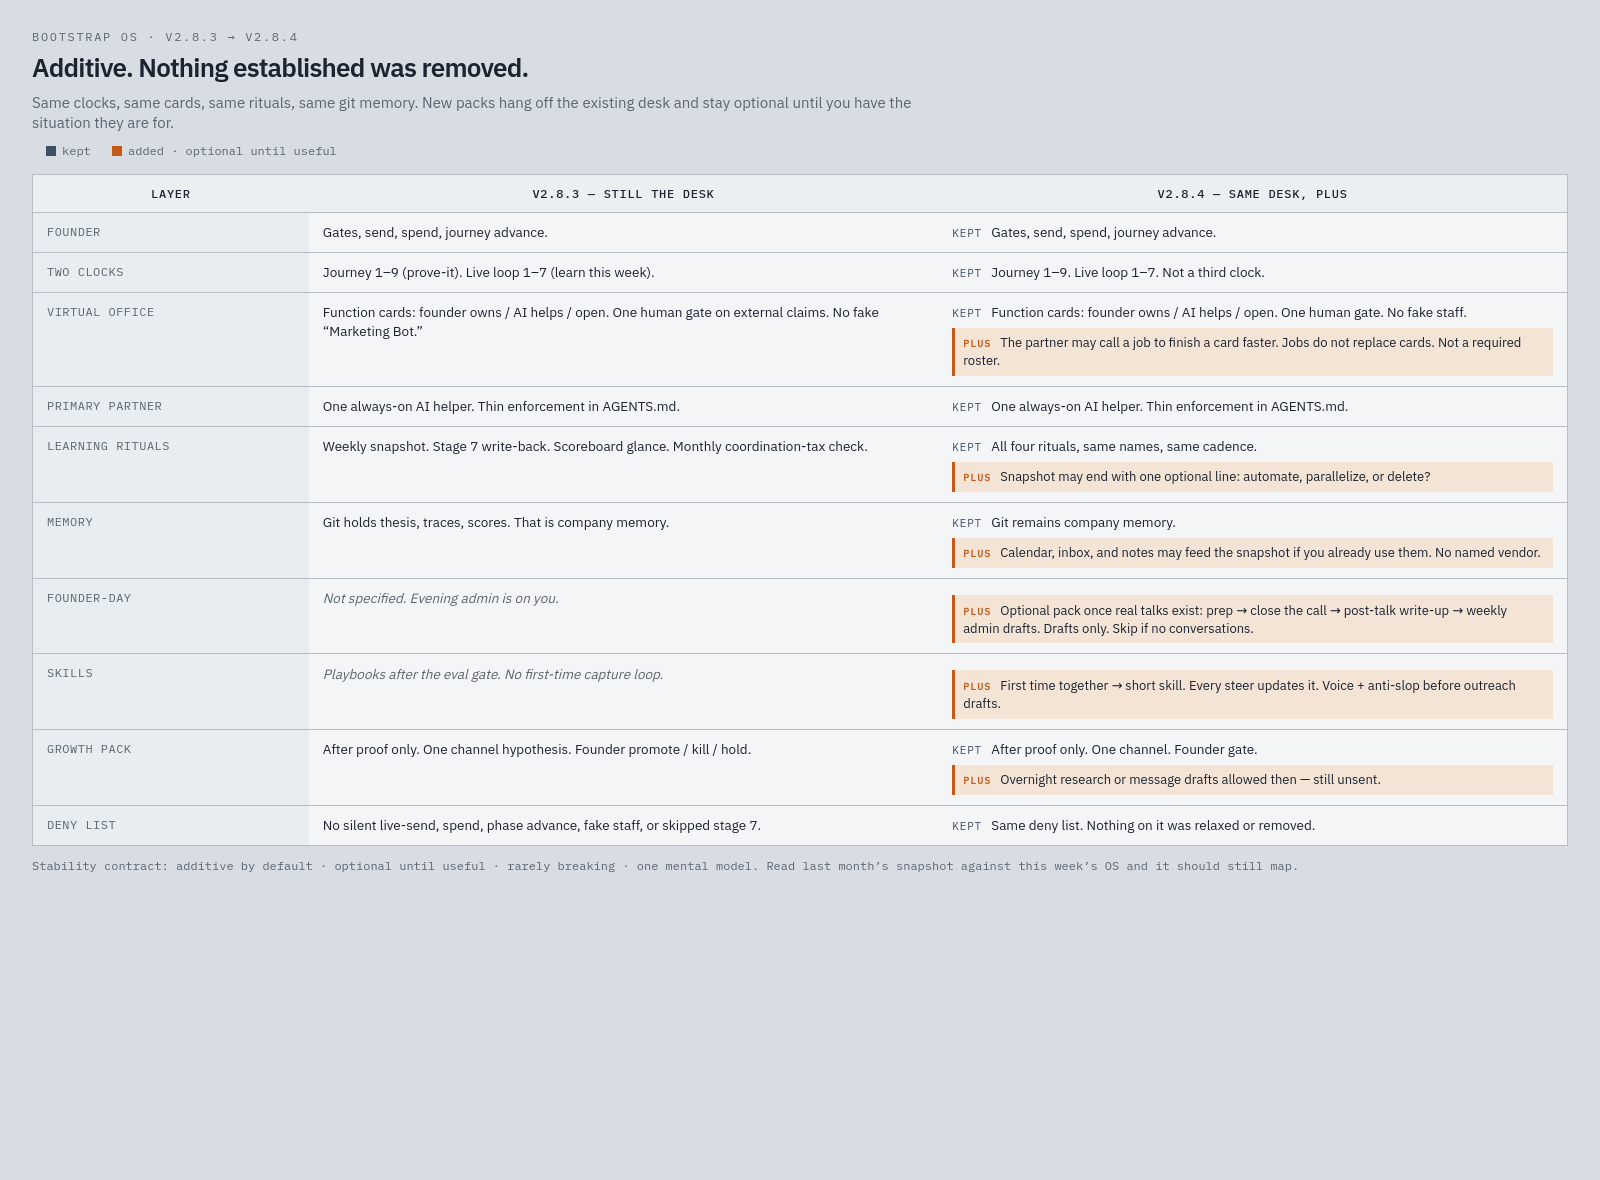
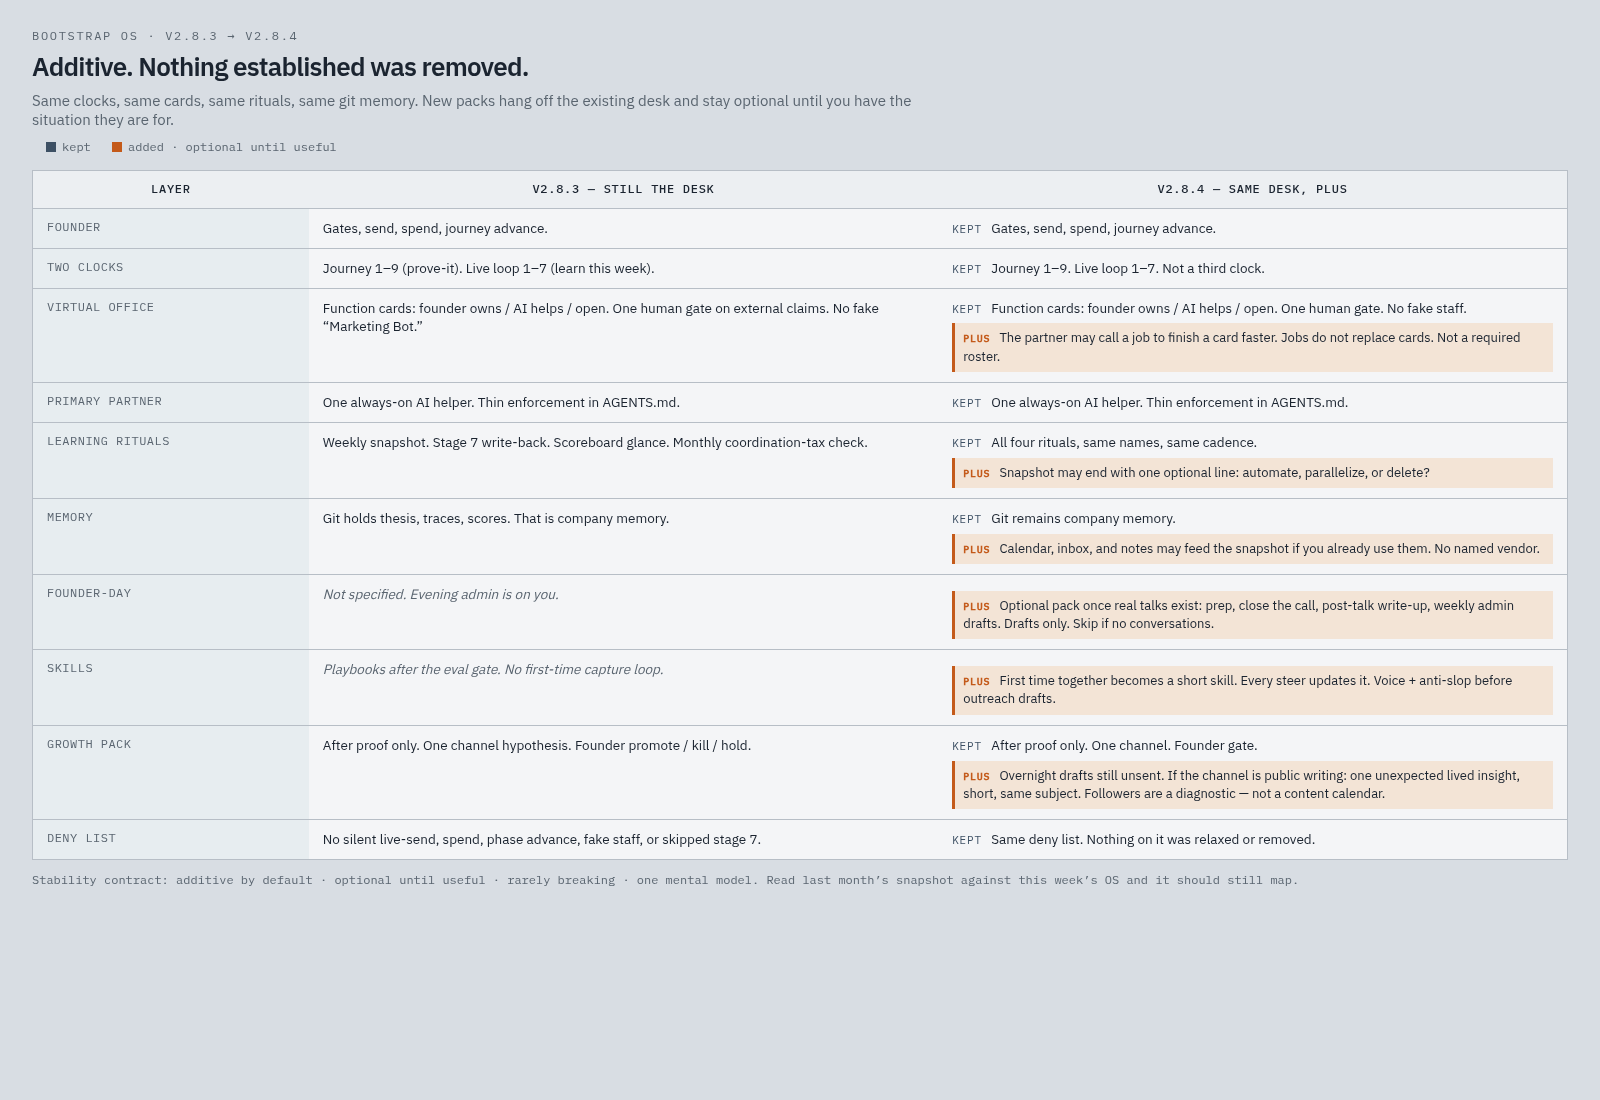
Polish v2.8.4: insight quality before posting cadence.
Add one portable growth-pack rule from the public-writing playbook: one lived observation, short, same subject. No daily calendar, no platform folklore. CI 56/56.

diff --git a/docs/diagrams/os-v2.8.4-before-after.html b/docs/diagrams/os-v2.8.4-before-after.html
@@ -186,19 +186,19 @@
       <tr>
         <td class="layer">Founder-day</td>
         <td class="empty">Not specified. Evening admin is on you.</td>
-        <td><span class="plus"><b>PLUS</b> Optional pack once real talks exist: prep → close the call → post-talk write-up → weekly admin drafts. Drafts only. Skip if no conversations.</span></td>
+        <td><span class="plus"><b>PLUS</b> Optional pack once real talks exist: prep, close the call, post-talk write-up, weekly admin drafts. Drafts only. Skip if no conversations.</span></td>
       </tr>
       <tr>
         <td class="layer">Skills</td>
         <td class="empty">Playbooks after the eval gate. No first-time capture loop.</td>
-        <td><span class="plus"><b>PLUS</b> First time together → short skill. Every steer updates it. Voice + anti-slop before outreach drafts.</span></td>
+        <td><span class="plus"><b>PLUS</b> First time together becomes a short skill. Every steer updates it. Voice + anti-slop before outreach drafts.</span></td>
       </tr>
       <tr>
         <td class="layer">Growth pack</td>
         <td>After proof only. One channel hypothesis. Founder promote / kill / hold.</td>
         <td>
           <span class="same">KEPT</span> After proof only. One channel. Founder gate.
-          <span class="plus"><b>PLUS</b> Overnight research or message drafts allowed then — still unsent.</span>
+          <span class="plus"><b>PLUS</b> Overnight drafts still unsent. If the channel is public writing: one unexpected lived insight, short, same subject. Followers are a diagnostic — not a content calendar.</span>
         </td>
       </tr>
       <tr>

diff --git a/company-os/operating-system.md b/company-os/operating-system.md
@@ -113,6 +113,8 @@ Before putting serious time into an idea, answer:
 
 You do not need rocket science. Many good companies win by acting on a simple truth others thought was too messy, too small, or not worth the effort.
 
+If you later speak in public ([growth pack](#after-proof-the-growth-pack), after proof), that belief should still be **one unexpected observation from your experience** — short, same subject. It is not a content calendar and not Day-0 work.
+
 ---
 
 ## The Real Job of the Early Phases
@@ -447,7 +449,7 @@ Primary-focus **promotion** still requires the full promotion rule (synthetic + 
 
 **When:** journey phases **8–9**, after proof — not a substitute for the [next pack](#after-synthetic-ranking-the-next-pack) (phases 3–5).  
 **What:** capped experiments on the **same proven customer group** and thin path.  
-**What not:** multi-channel acquisition machinery, channel-tooling folklore, or a tenth journey phase.
+**What not:** multi-channel acquisition machinery, channel-tooling folklore, a daily personal-brand calendar, or a tenth journey phase.
 
 **Entry criteria (all required before growth machinery):**
 
@@ -487,7 +489,8 @@ Write growth/ROUND_* + decision trace; only then expand spend or add a second ch
 4. **Pain owner, then budget owner** when the motion is a human conversation.  
 5. **Reuse known history first** (closed-won patterns, champion continuity, churned power users) before buying cold volume — *if* that history exists.  
 6. **Evidence labels still apply.** A reply is not retention. Spend is not product–market fit.  
-7. **Overnight drafts after proof only.** The primary partner may batch research or message drafts for that one channel while you sleep. Outputs stay drafts. Live-send still waits for you. This is not a Day-0 ritual.
+7. **Overnight drafts after proof only.** The primary partner may batch research or message drafts for that one channel while you sleep. Outputs stay drafts. Live-send still waits for you. This is not a Day-0 ritual.  
+8. **Insight quality before posting cadence.** If the channel is public writing, one unexpected observation from *your* experience, on the same subject, short. AI may draft; you own the insight. Follower count, streak length, and creator payouts are diagnostics — not phase-9 success. Skip this rule if the channel is not public writing.
 
 **Founder gate after each growth round:**
 
@@ -500,7 +503,7 @@ Write growth/ROUND_* + decision trace; only then expand spend or add a second ch
 
 **Artifacts:** short notes under `growth/` (or equivalent) per round — hypothesis, cap, counts vs thresholds, decision, date. Live-loop stage 7 writes back scores and the next question.
 
-**Not in this pack:** deliverability ops, data-vendor stacks, channel-specific tooling. Optional private motion notes after a channel is chosen — never core OS law.
+**Not in this pack:** deliverability ops, data-vendor stacks, channel-specific tooling, posting calendars, or platform promotion promises. Optional private motion notes after a channel is chosen — never core OS law.
 
 ---
 
@@ -796,6 +799,8 @@ git = company memory                    same
                                         skill-capture (first time → skill)
 growth pack (after proof)               same
                                           + overnight drafts still unsent
+                                          + insight quality before cadence
+                                            (if the channel is public writing)
 
 Nothing above on the left was removed. Two clocks stay two.
 ```
@@ -1180,7 +1185,8 @@ Every company should maintain its own list. Starter prompts:
 - Which failures become permanent **stress scenarios**?  
 - What would make us **kill** the current hypothesis cleanly?  
 - Do we have **proof markers** that unlock the growth pack, or are we still in hold-scale?  
-- What is the **one** primary channel hypothesis for the next growth round, and what outcome threshold kills it?
+- What is the **one** primary channel hypothesis for the next growth round, and what outcome threshold kills it?  
+- If that channel is public writing: is the message one lived insight, or a content calendar?
 - Is **Ready for human eyes** green before we ask mentors or users to try a product link?  
 - What blockers (iframe, auth, JS, private URL) still kill the cold happy path?
 
@@ -1211,7 +1217,8 @@ Every company should maintain its own list. Starter prompts:
 - Silently rewriting this template every time one product ships a feature  
 - Moving sand: renaming clocks, restacking the loop, or dropping a gate so last month’s snapshot no longer maps  
 - Running multi-channel growth machinery before proof of value or payment  
-- Treating opens, total replies, or list size as growth success  
+- Treating opens, total replies, list size, or follower count as growth success  
+- A daily personal-brand machine, or AI insight spray, as a substitute for a lived observation  
 - AI personalization on an unproven audience as a substitute for offer/channel fit  
 - Asking mentors or users to “try it” before **Ready for human eyes** is green  
 - Treating “works on my machine / in my chat” as ready for external feedback  
@@ -1247,7 +1254,7 @@ Everything else in the research method is adjacent literature or a **house rule*
 | 2.8.1 | Evidence labels stated / synthetic / observed; forced-choice + one condition change; no Likert/dollar from sims; optional Grok Build workflows (path 2). |
 | 2.8.2 | Honesty pass: label observed-wins / spoken-yes-cannot-promote as house epistemology; qualify naked dollar/Likert (mapped $ after a choice is allowed); short sources note (Bisbee 2024 + Brand 2026 §3.3 load-bearing only). |
 | 2.8.3 | House rule: do not seed a persona from a demographic one-liner; demo-only role-play is the weak case (sharpening of thesis-only-is-weaker). |
-| 2.8.4 | Additive only. Stability contract (additive, optional-until-useful, rarely breaking). Founder-day pack and skill-capture sit beside existing rituals. Virtual-office cards stay; partner may call jobs for a card. Day tools may feed the snapshot; git remains memory. Growth pack may overnight-draft after proof. No clocks, gates, or deny-list items removed. |
+| 2.8.4 | Additive only. Stability contract (additive, optional-until-useful, rarely breaking). Founder-day pack and skill-capture sit beside existing rituals. Virtual-office cards stay; partner may call jobs for a card. Day tools may feed the snapshot; git remains memory. Growth pack: overnight drafts after proof; insight quality before posting cadence (one lived observation, short — not a content calendar). No clocks, gates, or deny-list items removed. |
 
 ---
 

diff --git a/README.md b/README.md
@@ -144,7 +144,7 @@ Treat promotion into this template as rare, deliberate work — not a continuous
 ### Recent portable additions
 
 **v2.8.4 — additive weekday packs + stability contract**  
-Nothing established was removed. Founder-day and skill-capture sit beside existing rituals and are skippable until real conversations exist. Virtual-office cards stay; the partner may call jobs for a card. Day tools may feed the snapshot; git remains memory. Overnight drafts only after proof. [Additive diagram](docs/diagrams/os-v2.8.4-before-after.html).
+Nothing established was removed. Founder-day and skill-capture sit beside existing rituals and are skippable until real conversations exist. Virtual-office cards stay; the partner may call jobs for a card. Day tools may feed the snapshot; git remains memory. After proof: overnight drafts still unsent; if the channel is public writing, one lived insight beats a content calendar. [Additive diagram](docs/diagrams/os-v2.8.4-before-after.html).
 
 **v2.8.3 — demo-only role-play is the weak case**  
 Do not seed a persona from a demographic one-liner. Seed from traces. Sharpening of thesis-only-is-weaker.

diff --git a/company-os/ai-instructions.md b/company-os/ai-instructions.md
@@ -67,7 +67,9 @@ Hard rules you must follow:
 9. After proof (phases 8–9), prefer the growth pack before multi-channel spend:
    entry criteria; one primary channel hypothesis; outcomes over vanity; founder gate
    (iterate / promote channel / kill channel / hold scale). Full method in the OS blueprint.
-   Never open growth machinery without proof markers; opens/list size are not phase-9 success.
+   Never open growth machinery without proof markers; opens/list size/follower count are not phase-9 success.
+   If the channel is public writing: one unexpected observation from my experience, short;
+   I own the insight. Insight quality before posting cadence.
 10. Never draft or send a request for external human product testing
     (mentor beta, “try my link,” interactive survey respondents) unless Ready for human eyes is green:
     cold/shareable URL, happy path completed in a non-founder context (sandbox browser and/or

diff --git a/company-os/live-runtime.md b/company-os/live-runtime.md
@@ -372,6 +372,7 @@ Before heavy agent frameworks, a solo founder can run an honest loop with:
 | Growth pack without proof markers | Spend/reputation burn before the business is real ([growth pack](operating-system.md#after-proof-the-growth-pack)) |
 | Multi-channel spray in phase 9 | Solo complexity without comparable signal |
 | Vanity metrics as growth success | Optimizes noise; hides weak offer/channel |
+| Daily content machine or follower count as phase-9 | Personal brand is not product–market fit |
 | Ask mentor/user to try product while human-eyes is not green | Wastes human attention on deploy/path debris |
 | “Works in my chat / my cookies” as ready for eyes | Cold users hit different failures |
 | Green human-eyes treated as PMF | Path alive ≠ people care or pay |
